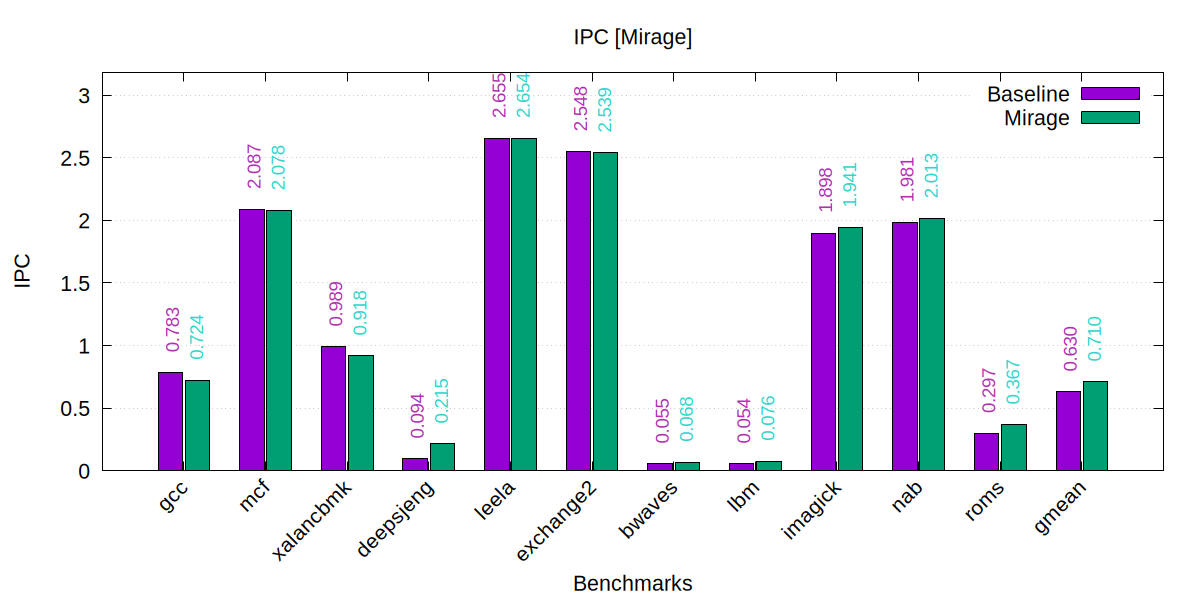
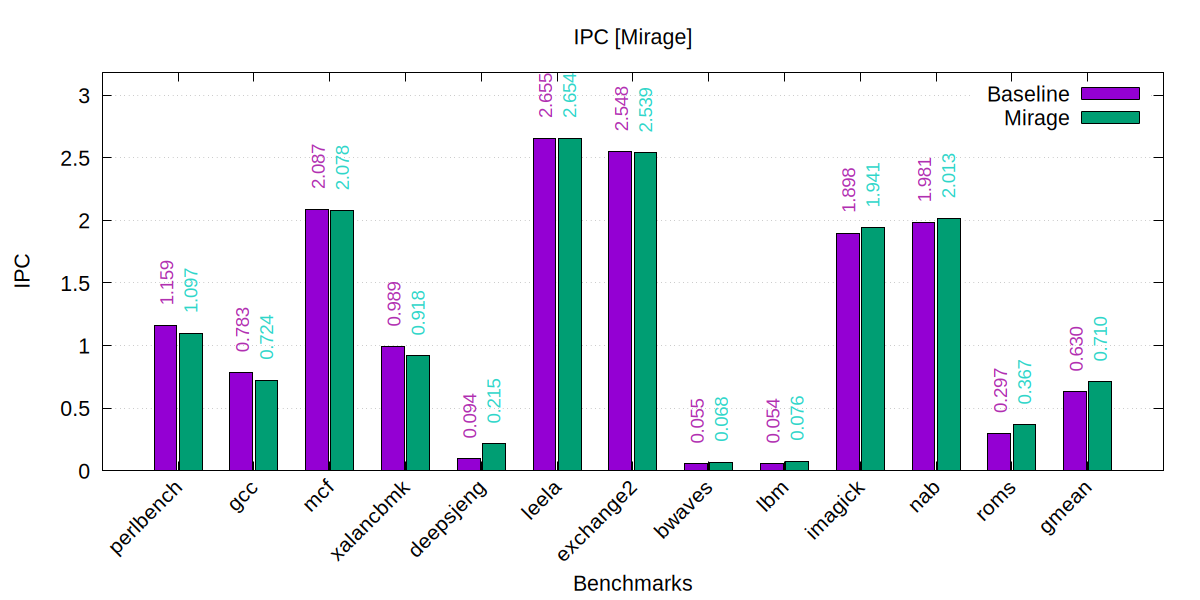
updated graphs: perlbench added; replacements for mirage;

Changed region(s): [[0.0925, 0.12, 0.925, 0.93], [0.185, 0.81, 0.2158, 0.87], [0.2158, 0.9, 0.2467, 0.93]]

diff --git a/Final_Project/Workspace/myScripts/run_plot/plot_replacement.py b/Final_Project/Workspace/myScripts/run_plot/plot_replacement.py
@@ -1,0 +1,49 @@
+import matplotlib.pyplot as plt
+import pandas as pd
+from io import StringIO
+
+# Your data
+data = ""
+with open('data/data.csv', 'r') as fileobj:
+    data = fileobj.read()
+
+# Read the data into a pandas DataFrame
+df = pd.read_csv(StringIO(data))
+
+# Extract mode names (removing 'mirage_' prefix)
+df['mode'] = df['mode'].str.replace('mirage_', '')
+
+# Get unique benchmarks
+benchmarks = df['benchmark'].unique()
+
+# Create a figure
+plt.figure(figsize=(12, 6))
+
+# Use a colormap with enough colors
+colors = plt.cm.tab20.colors  # Using tab20 which has 20 distinct colors
+
+# Plot a line for each benchmark
+for i, benchmark in enumerate(benchmarks):
+    benchmark_data = df[df['benchmark'] == benchmark]
+    plt.plot(benchmark_data['mode'], benchmark_data['l2_replacement'], 
+             marker='o', color=colors[i], label=benchmark)
+
+# Set labels and title
+plt.xlabel('L2 Tag Overhead (%) of baseline tag size', fontsize=16)
+plt.ylabel('Local Replacement', fontsize=16)
+plt.title('Mirage Tradeoff :: Tag Overhead vs Security', fontsize=16, pad=20)
+
+# Rotate x-axis labels for better readability
+plt.xticks(rotation=45, fontsize=14)
+plt.yticks(fontsize=14)
+
+# Use logarithmic scale for y-axis due to large value range
+# plt.yscale('log')
+
+# Add legend
+plt.legend(title='Benchmark', title_fontsize=14, fontsize=14)
+# Adjust layout to prevent label cutoff
+plt.tight_layout()
+
+# Show the plot
+plt.savefig('plots/replacements.png', dpi=300, bbox_inches='tight')
